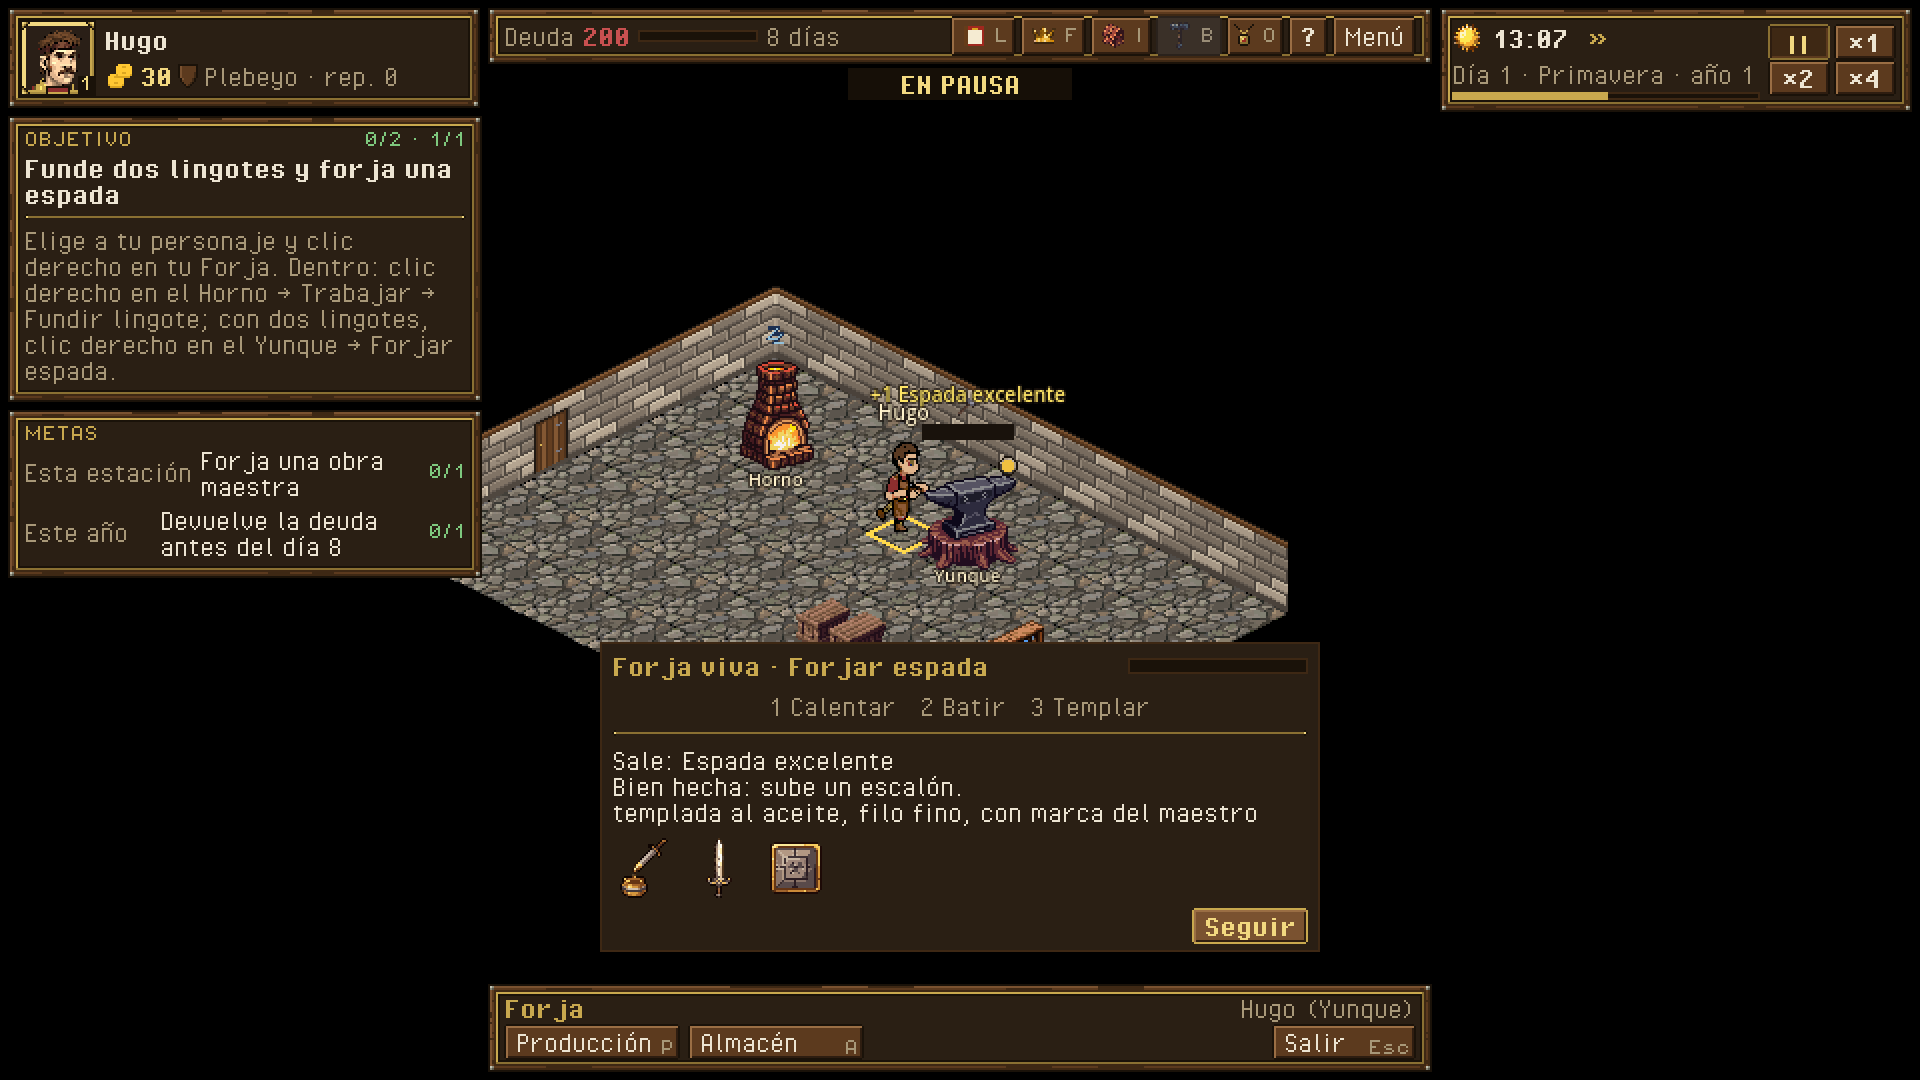
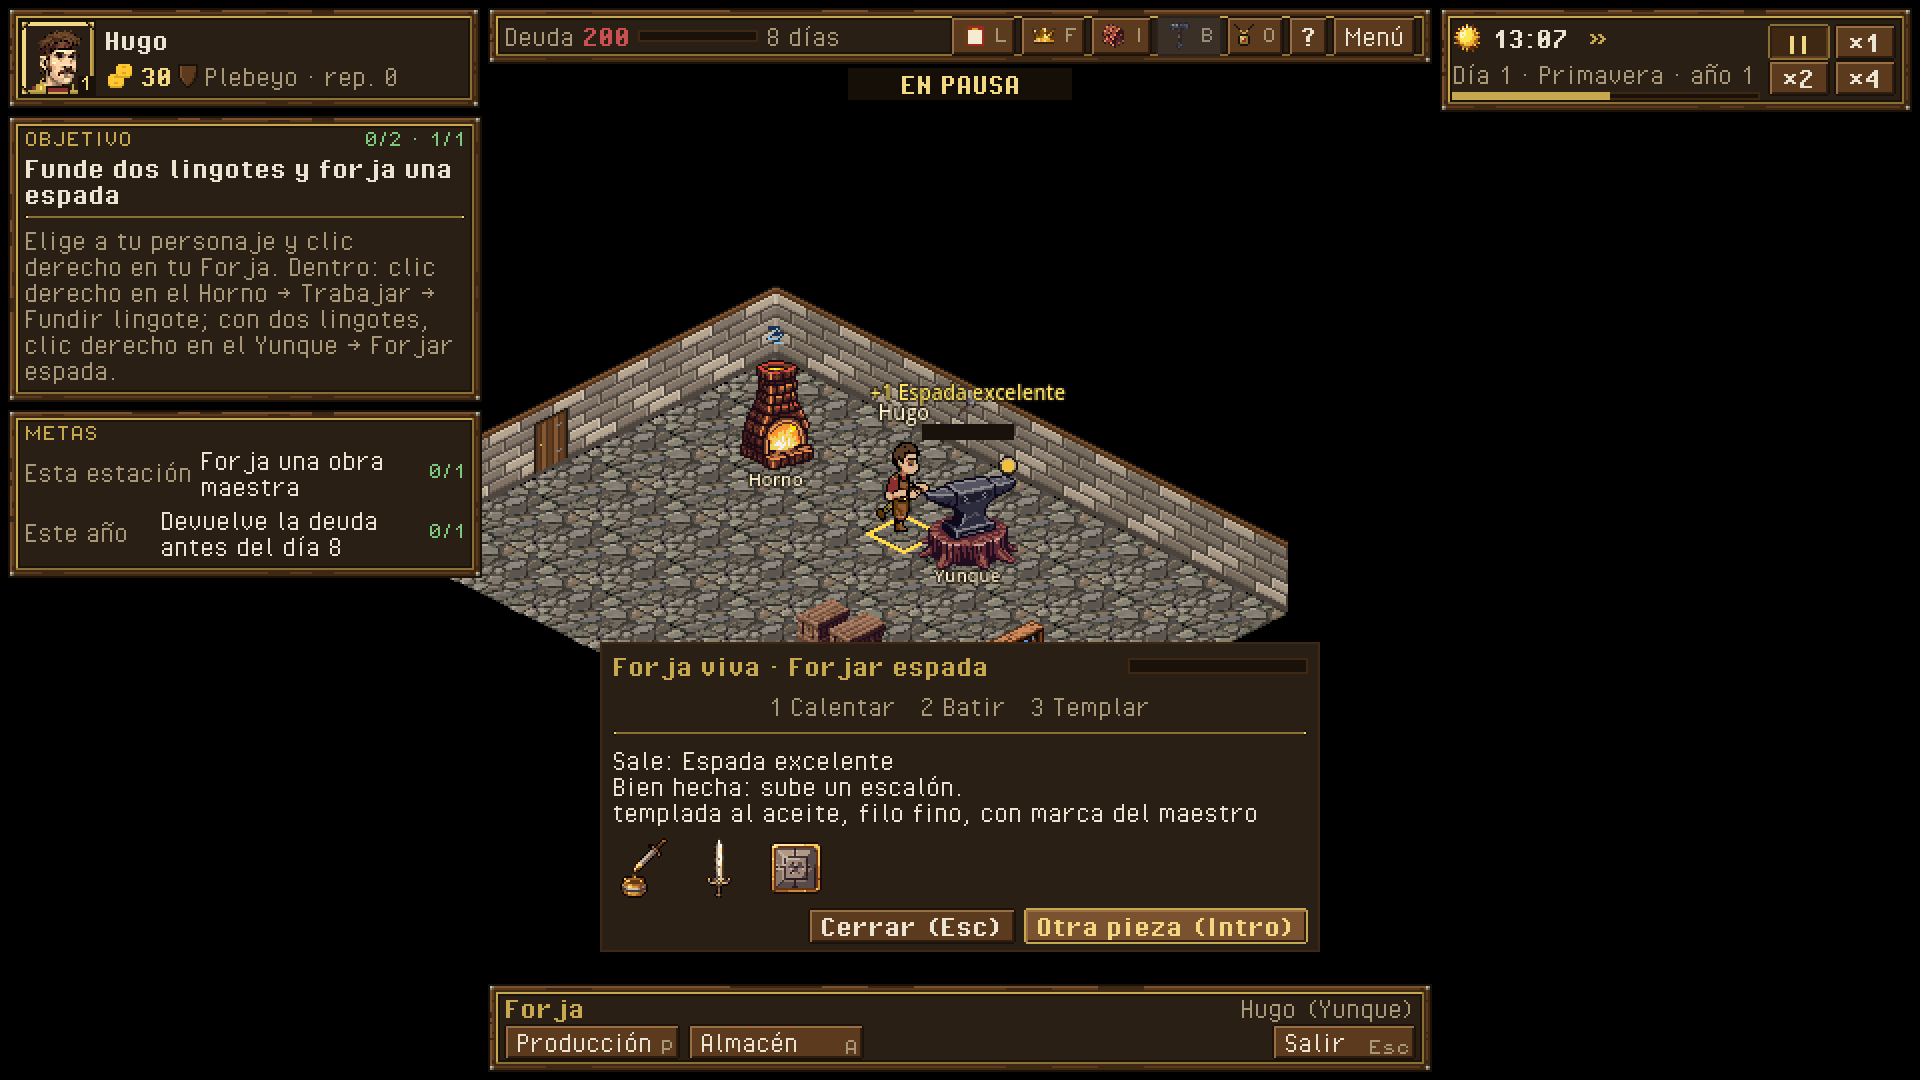
Forja viva: «Cerrar» back to the anvil and «Otra pieza» apart; the master touch leaves the UI (verifica findings)
- Result of a piece: «Cerrar» (Esc) closes and opens the anvil's menu; the piece the forge
  started on its own after it is stopped with live_forge step «stop» (management: also in
  pause, where stop_work waited behind the work), inputs back (D11). «Otra pieza» (Enter)
  goes on by hand. The masterwork card's button only hides the card.
- Master touch replaced by the Forja viva (04 §4.4.5, 03b §3b.8): the UI no longer gives
  master_touch (no blinking window, a click goes to the station, no tutorial hint, no
  «+ toque de maestro»); the sim keeps the order and its window for old saves and bots.
- The blacksmith novice can play its quality contracts in Forja viva (live_for_quality),
  off by default: on, it moves artisan_novice's bands (10 seeds: 6 misses) and waits for
  the owner. Trades without Forja viva keep the touch in their bots.
- Smoke: fv_resultado_botones and fv_cerrar; tests for the stop and for the UI without
  the touch.
- QA: all steps ok (1024 tests); novice, cast and pacing identical to before.

Changed region(s): [[0.4062, 0.825, 0.6875, 0.8861], [0.4688, 0.3361, 0.5625, 0.3972]]

diff --git a/docs/ui/05_tutorial.md b/docs/ui/05_tutorial.md
@@ -168,8 +168,8 @@ mientras, hasta 3, esperan su turno), solo si las pistas están encendidas y no 
 curso no sale (saldrá la próxima vez que pase). `until` (opcional) la quita sola y la da por vista (la del puesto se va
 al dar la primera orden de trabajo); la de un panel se va si se cierra el panel, sin darla por vista. «Entendido» (o
 Tab) la cierra y la da por vista; «No volver a mostrar» apaga todas las pistas (se vuelven a encender en Opciones).
-`$event.<campo>` en el objetivo toma el dato del evento que la disparó (la del toque de maestro señala el puesto que
-parpadea).
+`$event.<campo>` en el objetivo toma el dato del evento que la disparó (la de un puesto señala el puesto del
+evento).
 
 ## 5. Cómo se ve
 
@@ -262,10 +262,10 @@ Recetas, puestos y calidad: de hierro a espada.
 | 4 | `ingot` | acaba el anterior | `Row_forge_ingot` en `StationMenu` | Elige el lingote de hierro: {head} se pone a trabajar. | ui `order_given` (type=work_at, recipe=forge_ingot) |
 | 5 | `wait_ingots` | acaba el anterior | station `furnace` | La barra sobre el horno avanza. Una espada pide dos lingotes: espera a tenerlos (Mayús+3 acelera). | estado `storage_has` (item=iron_ingot, qty=2) |
 | 6 | `anvil_menu` | acaba el anterior | station `anvil` | Ya están. Ahora clic derecho en el yunque. | estado `panel_open` (is=StationMenu, zone=anvil) |
-| 7 | `careful` | acaba el anterior | `CarefulButton` en `StationMenu` | Elige Con cuidado: la espada saldrá mejor. | estado `panel_prop` (panel=StationMenu, prop=mode, value=careful) |
+| 7 | `live` | acaba el anterior | `CarefulButton` en `StationMenu` | Elige Forja viva: la espada la forjas tú, en tres pasos. | estado `panel_prop` (panel=StationMenu, prop=mode, value=live) |
 | 8 | `quality` | acaba el anterior | `QualityBox` en `StationMenu` | La calidad esperada: depende de tu oficio, de la herramienta y del modo. | «Siguiente» |
 | 9 | `sword` | acaba el anterior | `Row_forge_sword` en `StationMenu` | Elige la espada. | ui `order_given` (type=work_at, recipe=forge_sword) |
-| 10 | `touch` | sim `master_window` (open=True, zone=anvil) | station `anvil` | ¡El yunque parpadea! Clic izquierdo en él ahora: toque de maestro, más calidad. | sim `master_touch_done` (zone=anvil) o sim `work_done` (item=sword) |
+| 10 | `live_forge` | estado `panel_open` (is=LiveForgeScreen) | `Panel` en `LiveForgeScreen` | Saca el hierro en rojo cereza, bate siguiendo la plantilla y témplala al aceite. Esc: resolver sin jugar. | sim `live_forge_done` (recipe=forge_sword) o sim `work_done` (item=sword) |
 | 11 | `storage` | estado `storage_has` (item=sword, qty=1) | `StorageButton` | La espada está en el almacén. Ábrelo (A). | estado `panel_open` (is=StoragePanel) |
 | 12 | `result` | acaba el anterior | `BuildingGrid` en `StoragePanel` | Aquí está, con su calidad. El siguiente capítulo enseña a venderla. | «Siguiente» |
 
@@ -444,7 +444,6 @@ Retar con motivo y ganar al alba (docs/gdd/04e_combate.md). Se prueba con el esc
 | Pista | Sale cuando | Resalta | Texto (ES) | Se va sola con |
 |---|---|---|---|---|
 | `inside` | estado `interior` (is=$workshop) | station `$first_station` | Clic derecho en un puesto: trabajar aquí. | ui `order_given` (type=work_at) |
-| `master_touch` | sim `master_window` (open=True) | station `$event.zone` | El puesto parpadea: clic izquierdo para el toque de maestro. | sim `master_window` (open=False) |
 | `storage` | estado `panel_open` (is=StoragePanel) | `BuildingGrid` en `StoragePanel` | Clic: coger. Lo que llevas encima, abajo. | — |
 | `production` | estado `panel_open` (is=ProductionPanel) | `Tabs` en `ProductionPanel` | Elige qué fabricar y cuántos en la pestaña Cola: los empleados la trabajan. | — |
 | `market` | estado `panel_open` (is=MarketPanel) | `MarketPanel` | Cada venta baja la demanda; al alba se recupera. | — |

diff --git a/docs/gdd/04_diseno_de_juego.md b/docs/gdd/04_diseno_de_juego.md
@@ -311,9 +311,14 @@ SERVICIOS: Taberna, Posada, Scriptorium, Banco (sin materia prima)
 
 #### 4.4.5 Trabajar a mano: modo y toque de maestro
 
-> Para quien trabaja a mano en el yunque de la forja, la «Forja viva» (calentar, batir, templar) sustituye al modo
-> con cuidado y su toque de maestro: [03b_diversion_y_ritmo.md](03b_diversion_y_ritmo.md) §3b.2 y §3b.8. Lo de abajo
-> sigue igual para los otros oficios, los bots y las partidas guardadas.
+> **El toque de maestro está sustituido por la «Forja viva»** (calentar, batir, templar: [03b_diversion_y_ritmo.md](03b_diversion_y_ritmo.md)
+> §3b.2 y §3b.8; owner, 2026-11-05). La orden `master_touch` ya no la da la interfaz: el puesto no parpadea ni pinta
+> la ventana, un clic en él solo lleva al puesto y no hay pista de tutorial; en el yunque de la forja el modo «con
+> cuidado» lo ocupa la Forja viva, y en los otros oficios «con cuidado» sigue (×1,5 de tiempo, Artesanía +2) pero sin
+> toque. En el sim la orden y su ventana siguen, para cargar partidas viejas con un ciclo «con cuidado» a medias y
+> para los bots que la dan (el novato del herrero en los encargos con calidad y los novatos de los otros oficios);
+> pasar al novato a la Forja viva mueve sus dianas y espera al owner (`live_for_quality`, §3b.8). Lo de abajo
+> describe esa regla del sim.
 
 Cuando un personaje **controlado por el jugador** trabaja en un puesto (orden `WorkAt`), no se limita a esperar la barra: elige **cómo** trabaja y puede intervenir durante el ciclo.
 

diff --git a/docs/gdd/03b_diversion_y_ritmo.md b/docs/gdd/03b_diversion_y_ritmo.md
@@ -283,3 +283,14 @@ en el cuaderno.
 semillas el novato no junta 300 de oro en el año 1 y las mejoras no se abren. El owner decide que la ventana de las
 mejoras no se mueve: lo arregla el equilibrio del año 1-2 con fiestas (Ciudadano y oro). La banda con fiestas queda
 como propuesta (`data/targets.json` `pacing._proposed_festivals`, sin comprobar) hasta ese equilibrio.
+
+**El toque de maestro, retirado de la interfaz (2026-11-05, hallazgo de verifica).** La Forja viva lo sustituye (04
+§4.4.5): la interfaz ya no da `master_touch`, el puesto no parpadea y la pista del tutorial se quitó; el sim conserva
+la orden para las partidas viejas y los bots. Pasar al novato del herrero (el de las dianas `artisan_novice`) a la
+Forja viva en sus encargos con calidad sube su oro (día 10 de 358 a 387 de media, 3 de 10 semillas por encima de 540) y
+deja 2 semillas a 0 el día 10: 6 fallos de banda. Queda detrás de `live_for_quality` (0 por defecto) hasta que el owner
+vea sus bandas; el bot de ritmo ya forja todo en Forja viva.
+
+**Tras el resultado (hallazgo de verifica).** «Cerrar» (Esc) cierra y vuelve al yunque con su menú abierto: si la forja
+ya había empezado sola la pieza siguiente, la para (las entradas vuelven al almacén) para que no quede forjando
+debajo del menú. «Otra pieza» (Intro) sigue a mano: la que ya empezó o una nueva de la misma receta.
